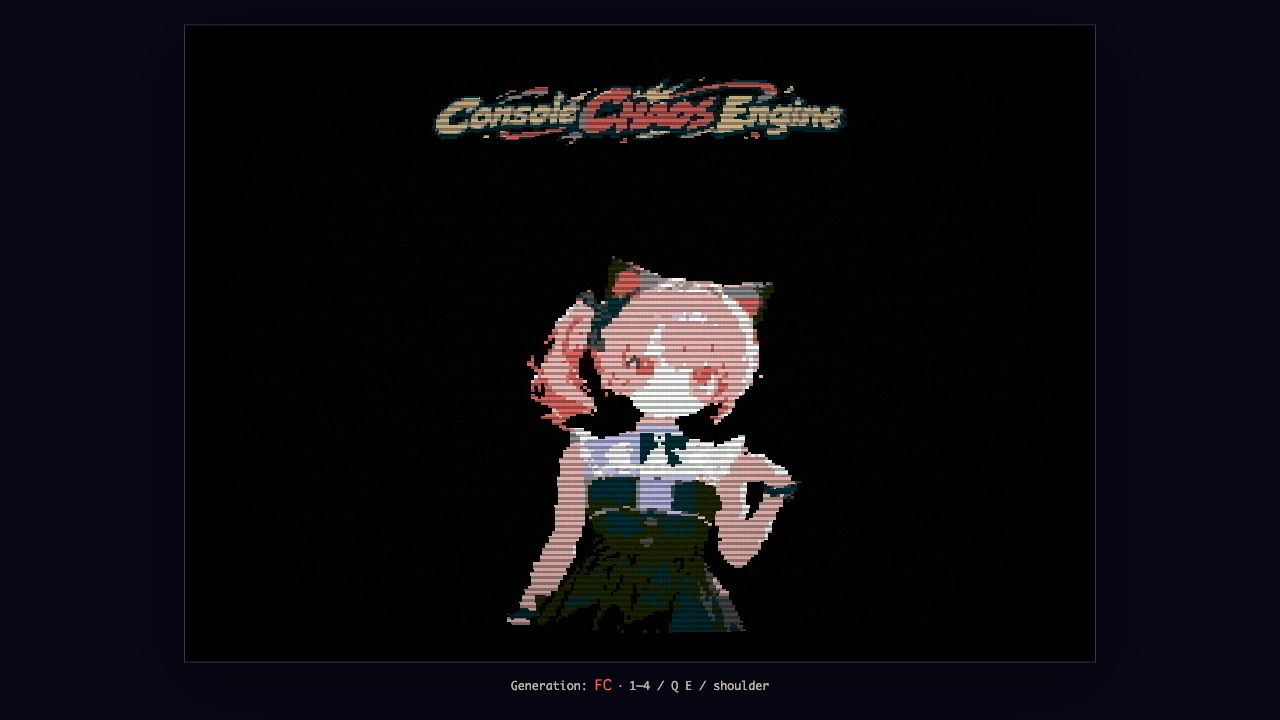
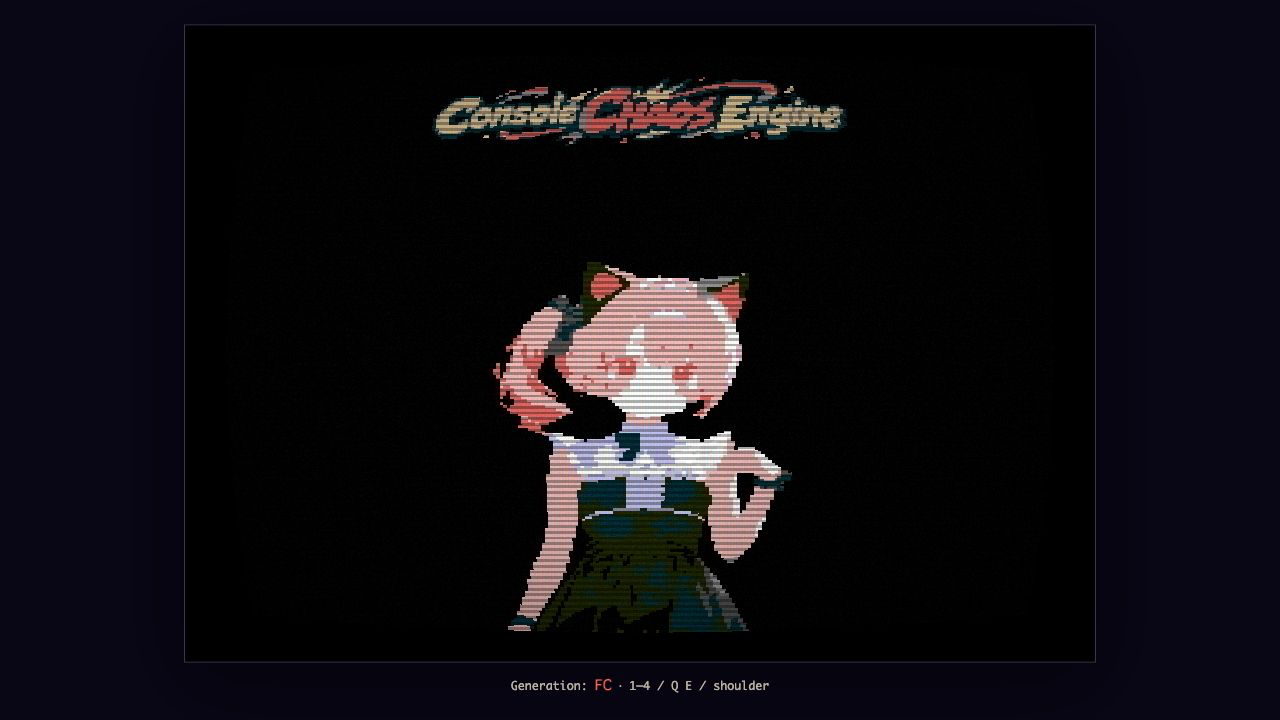
docs(asset-sample): complete animated title integration

Changed region(s): [[0.375, 0.3667, 0.625, 0.8556], [0.375, 0.825, 0.4688, 0.8861], [0.5625, 0.8556, 0.5938, 0.8861]]

diff --git a/apps/asset-pipeline-sample/README.md b/apps/asset-pipeline-sample/README.md
@@ -1,6 +1,11 @@
 # Asset Pipeline Sample
 
-1枚の世代非依存原画から `@console-chaos/asset-pipeline` で `FC / SFC / PS1 / PS2` 用画像を生成し、Console Chaos Engine の世代別rendererで同じタイトル画面を表示するサンプルです。
+1枚の世代非依存キャラクター原画から `@console-chaos/asset-pipeline` で `FC / SFC / PS1 / PS2` 用animation frameを生成し、Console Chaos Engine の世代別rendererと音源で同じタイトル画面・BGMを表現するサンプルです。
+
+- FC/SFC: 原画から生成した3姿勢を6/12 Hzで切替。runtime回転は使用しません。
+- PS1/PS2: 下端pivotを保ったまま30/60 HzのTweenで左右へ傾けます。
+- 全世代: 3段階の目パチとポニーテール差分をpipeline生成assetで再生します。
+- BGM: 120 BPMの同一曲を世代別音源で再生し、発音能力に応じて3/4/5/6 trackへ編曲します。
 
 ## 実行
 
@@ -25,14 +30,15 @@ npm run dev -w @console-chaos/asset-pipeline-sample
 - `?captureTime=0.5`: 検証用にアニメーション位相を秒で固定し、描画を静止PNGへ凍結
 
 `prefers-reduced-motion` が有効な環境では左右の揺れを停止します。
+BGMは最初のpointerまたはkeyboard操作で再生可能になり、世代切替後も拍位置を維持します。
 
 ## 構成
 
 - `art/source`: ImageGen由来の世代非依存原画。runtime bundleには含めません。
-- `tools/art.config.mjs`: matte、crop、resample、tone、palette、alphaの変換定義。
-- `public/assets/generated`: pipelineだけが生成する8枚のruntime PNGと決定的manifest。
-- `src`: Engine公開APIだけを利用するブラウザruntime。asset pipelineをimportしません。
-- `tests` / `tools/check-assets.ts`: animation、配置、lifecycle、決定性、palette／alpha契約を検査します。
+- `tools/art.config.mjs`: matte、crop、resample、body shear、ponytail／blink warp、tone、palette、alphaの変換定義。
+- `public/assets/generated`: pipelineだけが生成する40枚のruntime PNGと決定的manifest。
+- `src`: Engine公開APIだけを利用するブラウザruntimeとタイトルScore。asset pipelineをimportしません。
+- `tests` / `tools/check-assets.ts`: animation、audio、配置、lifecycle、決定性、palette／alpha契約を検査します。
 
 詳細な設計と完成条件は [Docs/IMPLEMENTATION_PLAN.md](Docs/IMPLEMENTATION_PLAN.md)、原画の生成履歴は [Docs/ASSET_PROVENANCE.md](Docs/ASSET_PROVENANCE.md) を参照してください。
 

diff --git a/apps/asset-pipeline-sample/Docs/IMPLEMENTATION_PLAN.md b/apps/asset-pipeline-sample/Docs/IMPLEMENTATION_PLAN.md
@@ -4,7 +4,7 @@
 
 作成日: 2026-08-16
 
-状態: 追加要件を実装中（2026-08-16）
+状態: 追加要件を実装・検証済み（2026-08-16）
 
 ## 1. 目的
 
@@ -375,7 +375,8 @@ pivotedSpriteCenter(pivot, size, angle): readonly [number, number]
 Tweenは左右の端で速度が0になる `smoothstep` または同等のease-in-outを使う。
 PS1は1/30秒、PS2は1/60秒へ時刻を量子化してから補間する。
 低世代は補間値を計算せず `rotation: 0` のまま、宣言した画像パターンを直接返す。
-ポニーテールframeは体の位相に対して1 sample遅らせ、体と一体の板が回転しているだけに見えない動きを作る。
+FC/SFCはasset内で体と逆方向へポニーテールをwarpし、PS1/PS2はtexture選択を体のTweenから
+1 sample遅らせる。体と髪が一体の板として回転しているだけに見えない動きを作る。
 
 ### 7.4 screen-space配置
 
@@ -626,3 +627,25 @@ console-chaos-assets build \
 - asset、unit、lifecycle、build、boundaryの全検査が成功する
 - 4世代captureと実行手順が保存される
 - root `npm run verify` が成功する
+
+## 14. 実装結果（2026-08-16）
+
+追加要件のP5〜P8を完了した。
+
+| フェーズ | commit | 結果 |
+|---|---|---|
+| 計画更新 | `6a28d86` | PLAN差分を40出力・animation・audio設計へ反映 |
+| P5 | `24a1c74` | 2原画からロゴ4枚＋character 36枚を決定的生成 |
+| P6 | `3d4a854` | FC/SFC asset pose、PS1/PS2 Tween、ponytail、blinkをruntimeへ統合 |
+| P7 | `944068f` | 120 BPM Score、能力ベース編曲、世代別音源、audio unlockを統合 |
+| P8 | `docs(asset-sample): complete animated title integration` | capture、README、本書、全体検証を更新 |
+
+検証結果:
+
+- `npm run verify -w @console-chaos/asset-pipeline-sample`: 成功
+- asset contract: 40 outputs、FCのロゴ＋全character frameの共有色17色
+- Vitest: 5 files / 18 tests 成功
+- lint、browser/tool TypeScript、Vite production build: 成功
+- `npm run verify`: 成功（Engine 46、asset pipeline 25、sample 18、Console Chaos 415、E2E 2 testsを含む）
+- `Docs/captures/title-{fc|sfc|ps1|ps2}.png`: 1280×720、`captureTime=0.5` で再取得
+- ブラウザ目視: 4世代のロゴ、姿勢、layout、世代別描画を確認。console warning/errorなし
